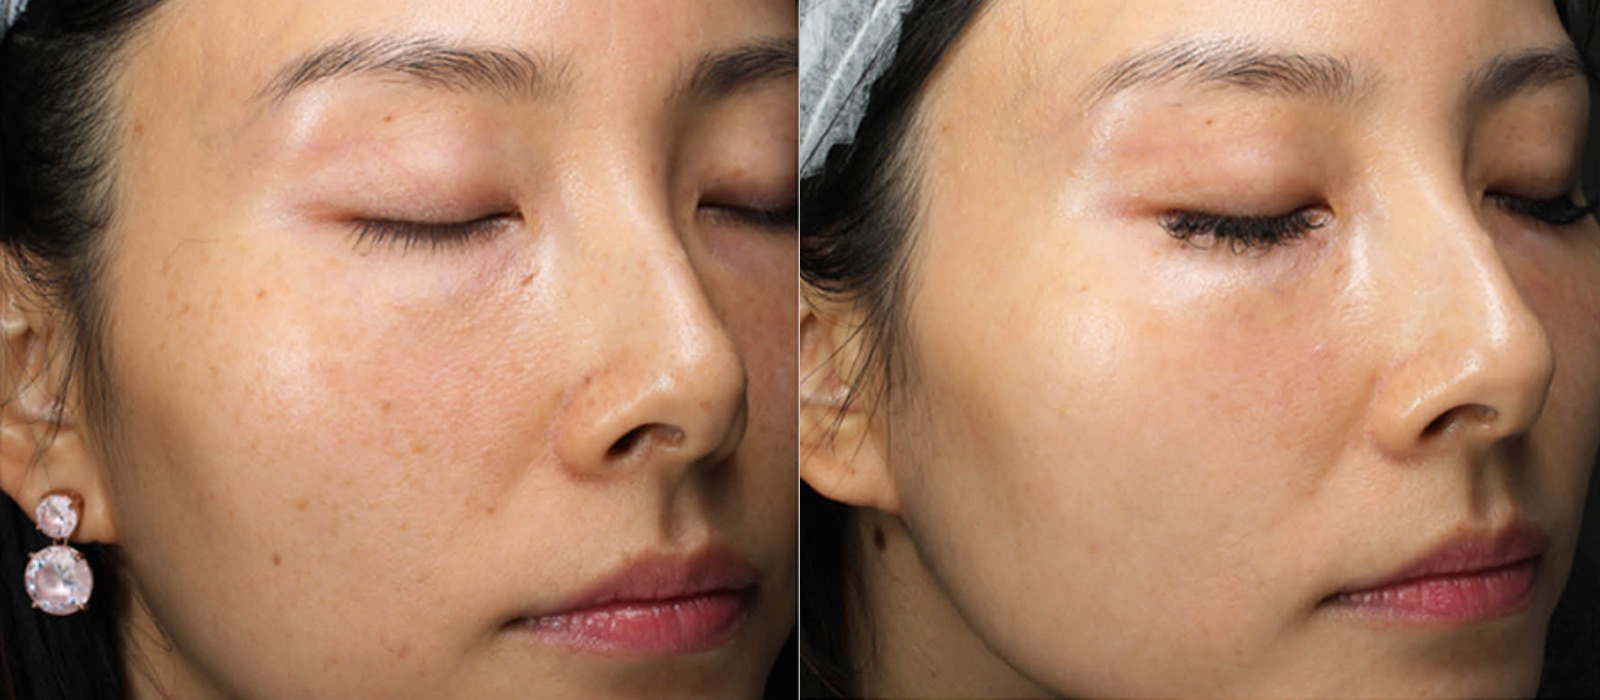
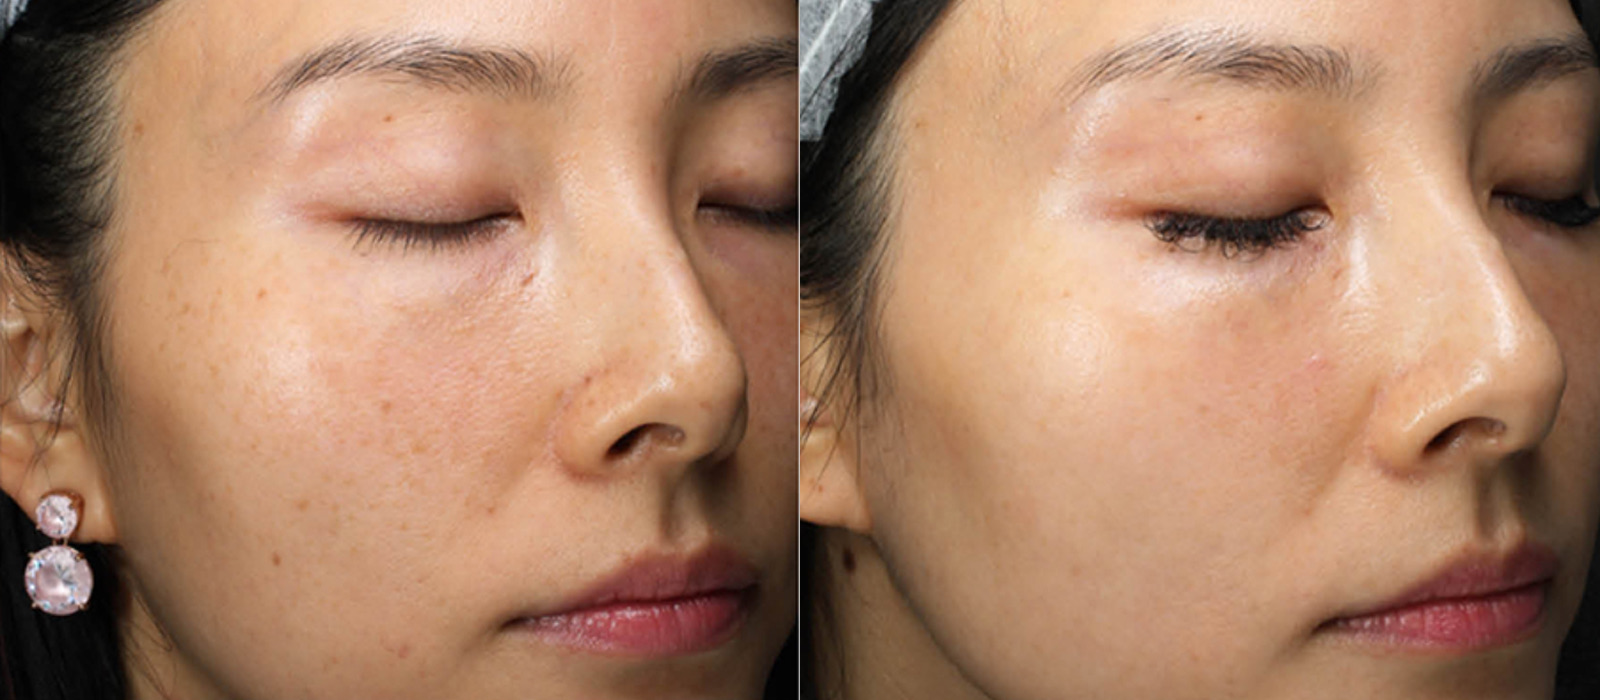
Home: scrollytelling treatments section, serif intro, larger hero CTA; XERF + PicoSure Pro detail pages
- Home: 4 treatment categories (pinned scroll on desktop, stacked on mobile),
  serif intro statement, hero button matches /book-now ("Book Your Consult")
- Detail pages linked for XERF and PicoSure Pro only (TREATMENT_PAGES_ON)
- Detail cards: copy for XERF/PicoSure, multi-line text shows as bullets,
  numbers in peach-deep, tighter leading; optional Disclaimer column
- New XERF main photo and PicoSure Pro before & after

diff --git a/src/components/HomeTreatments.jsx b/src/components/HomeTreatments.jsx
@@ -1,0 +1,144 @@
+import { useEffect, useRef, useState } from 'react'
+import { Link } from 'react-router-dom'
+import { sections } from '../lib/treatments'
+import { collectGroup } from '../lib/loadContent'
+import { hasDetailPage } from '../lib/features'
+
+// Home page treatment categories (copy: TREATMENTS_INTRO_n_* in home.txt; photos: assets/images/home/treatments/,
+// matched to the copy by file order, so name them 1-…, 2-…).
+//   TYPE  the spreadsheet type's Short Name whose treatments are listed; empty = no list, links to /treatments
+// Desktop: the panel stays pinned while you scroll; each step (90vh of scrolling) opens the next category and swaps the photo.
+// Mobile: a plain stack (photo, title, text, list) per category.
+const photos = Object.entries(import.meta.glob('../assets/images/home/treatments/*.jpg', { eager: true, import: 'default' }))
+  .sort(([a], [b]) => a.localeCompare(b))
+  .map(([, src]) => src)
+
+export default function HomeTreatments({ copy }) {
+  const items = collectGroup(copy, 'TREATMENTS_INTRO', ['TITLE', 'TEXT', 'TYPE']).map((item, i) => {
+    const type = sections.find((s) => s.shortName === item.type)
+    return {
+      ...item,
+      photo: photos[i],
+      treatments: type ? type.treatments : [],
+      href: type ? `/treatments#${type.anchor}` : '/treatments',
+    }
+  })
+
+  const wrapRef = useRef(null)
+  const panelRef = useRef(null)
+  const [active, setActive] = useState(0)
+
+  // How far the pinned stretch has been scrolled (0..1) decides which category is open
+  useEffect(() => {
+    function update() {
+      const wrap = wrapRef.current
+      const panel = panelRef.current
+      if (!wrap || !panel || !wrap.offsetParent) return // hidden on mobile
+      const range = wrap.offsetHeight - panel.offsetHeight
+      const progress = Math.min(Math.max(-wrap.getBoundingClientRect().top / range, 0), 0.999)
+      setActive(Math.floor(progress * items.length))
+    }
+    update()
+    window.addEventListener('scroll', update, { passive: true })
+    window.addEventListener('resize', update)
+    return () => {
+      window.removeEventListener('scroll', update)
+      window.removeEventListener('resize', update)
+    }
+  }, [items.length])
+
+  // Clicking a closed title scrolls to its step
+  function goTo(i) {
+    const wrap = wrapRef.current
+    const range = wrap.offsetHeight - panelRef.current.offsetHeight
+    const top = wrap.getBoundingClientRect().top + window.scrollY + ((i + 0.5) / items.length) * range
+    window.scrollTo({ top, behavior: 'smooth' })
+  }
+
+  return (
+    <>
+      {/* Desktop: pinned panel + one empty scroll step per category */}
+      <section ref={wrapRef} className="hidden md:block">
+        <div ref={panelRef} className="scrolly-panel">
+          <div className="page-container h-full grid grid-cols-2 gap-12 items-center">
+            <ol>
+              {items.map((item, i) => {
+                const open = i === active
+                return (
+                  <li key={item.title} className="grid grid-cols-[3rem_1fr] py-2">
+                    <span className={`type-body pt-2 transition-colors ${open ? 'text-ink' : 'text-ink/30'}`}>{i + 1}</span>
+                    <div>
+                      <button
+                        type="button"
+                        onClick={() => goTo(i)}
+                        className={`type-heading font-display font-light text-left transition-colors ${open ? 'text-ink' : 'text-ink/30 hover:text-ink/60'}`}
+                      >
+                        {item.title}
+                      </button>
+                      {open && <Details item={item} linkLabel={copy.TREATMENTS_INTRO_LINK} />}
+                    </div>
+                  </li>
+                )
+              })}
+            </ol>
+
+            <Link to={items[active]?.href || '/treatments'} className="img-frame relative block h-full max-h-[80vh] aspect-[4/5] justify-self-end" tabIndex={-1} aria-hidden="true">
+              {items.map((item, i) => (
+                <img
+                  key={item.title}
+                  src={item.photo}
+                  alt=""
+                  className={`absolute inset-0 w-full h-full object-cover transition-opacity duration-500 ${i === active ? 'opacity-100' : 'opacity-0'}`}
+                />
+              ))}
+            </Link>
+          </div>
+        </div>
+        {items.map((item) => (
+          <div key={item.title} className="h-[90vh]" aria-hidden="true" />
+        ))}
+      </section>
+
+      {/* Mobile: stacked */}
+      <section className="md:hidden page-container section-y space-y-14">
+        {items.map((item, i) => (
+          <div key={item.title}>
+            <div className="img-frame aspect-[4/5]">
+              {item.photo && <img src={item.photo} alt="" className="w-full h-full object-cover" />}
+            </div>
+            <p className="type-body text-ink mt-6">{i + 1}</p>
+            <h3 className="type-heading font-display font-light mt-1">{item.title}</h3>
+            <Details item={item} linkLabel={copy.TREATMENTS_INTRO_LINK} />
+          </div>
+        ))}
+      </section>
+    </>
+  )
+}
+
+function Details({ item, linkLabel }) {
+  return (
+    <div className="mt-4 max-w-md">
+      <p className="type-body text-ink">{item.text}</p>
+      {item.treatments.length > 0 && (
+        <ul className="type-body text-ink mt-5 space-y-1">
+          {item.treatments.map((t) => (
+            <li key={t.slug} className="flex gap-3">
+              <span aria-hidden="true">·</span>
+              {hasDetailPage(t.slug) ? (
+                <Link to={`/treatments/${t.slug}`} className="underline underline-offset-4 hover:text-peach transition-colors">
+                  {t.title}
+                </Link>
+              ) : (
+                t.title
+              )}
+            </li>
+          ))}
+        </ul>
+      )}
+      <Link to={item.href} className="type-link type-body text-ink mt-5 inline-block">
+        {linkLabel}
+      </Link>
+    </div>
+  )
+}

diff --git a/src/pages/Home.jsx b/src/pages/Home.jsx
@@ -1,7 +1,7 @@
 import { Link } from 'react-router-dom'
-import { useState } from 'react'
-import { sections, topTreatments } from '../lib/treatments'
+import { topTreatments } from '../lib/treatments'
 import Button from '../components/ui/Button'
+import HomeTreatments from '../components/HomeTreatments'
 import Section from '../components/ui/Section'
 import Highlighted from '../lib/highlight'
 import { parseContent } from '../lib/loadContent'
@@ -27,8 +27,6 @@ const mapSrc = `https://www.google.com/maps?q=${encodeURIComponent(g.FOOTER_ADDR
 const SHOW_TOP_TREATMENTS = false
 
 export default function Home() {
-  const [activeType, setActiveType] = useState(sections[0]?.anchor)
-
   return (
     <div>
       {/* Hero (sits below the fixed header) */}
@@ -44,17 +42,17 @@ export default function Home() {
             <h1 className="type-h1 mb-6">
               <Highlighted text={c.HERO_HEADLINE} />
             </h1>
-            <Button to="/book-now" variant="light" size="sm">
-              BOOK NOW
+            <Button to="/book-now" variant="light" size="xl">
+              {c.HERO_CTA}
             </Button>
           </div>
         </div>
       </section>
 
       {/* Intro statement - *asterisks* in the copy become the serif highlight */}
-      <section className="min-h-[60vh]">
-        <div className="page-container pt-12 pb-16">
-          <p className="type-h1 md:w-3/4">
+      <section className="md:min-h-[60vh]">
+        <div className="page-container pt-12 pb-[120px] md:pb-16">
+          <p className="type-statement md:ml-[25%]">
             <Highlighted text={c.INTRO} />
           </p>
         </div>
@@ -89,61 +87,7 @@ export default function Home() {
         </Section>
       )}
 
-      {/* Treatment types.
-          Desktop: hovering (or tabbing to) a name shows its thumbnail; clicking goes to /treatments#anchor.
-          Mobile (no hover): every thumbnail is shown, each one a link to its section. */}
-      <Section>
-        <div className="hidden md:grid grid-cols-2 gap-12 items-start">
-          <div>
-            {sections.map((section) => {
-              const active = activeType === section.anchor
-              return (
-                <div
-                  key={section.anchor}
-                  className={`type-h1 transition-colors ${active ? 'text-peach' : 'text-ink'}`}
-                  onMouseEnter={() => setActiveType(section.anchor)}
-                >
-                  <Link to={`/treatments#${section.anchor}`} onFocus={() => setActiveType(section.anchor)}>
-                    {section.shortName}
-                    {active ? ' •' : ''}
-                  </Link>
-                </div>
-              )
-            })}
-
-            <Link to="/treatments" className="type-link mt-6 inline-block">
-              See all
-            </Link>
-          </div>
-
-          <Link to={`/treatments#${activeType}`} className="img-frame block aspect-[622/560]" tabIndex={-1} aria-hidden="true">
-            {sections.map((section) =>
-              section.image ? (
-                <img
-                  key={section.anchor}
-                  src={section.image}
-                  alt=""
-                  className={`w-full h-full object-cover ${activeType === section.anchor ? 'block' : 'hidden'}`}
-                />
-              ) : null
-            )}
-          </Link>
-        </div>
-
-        <div className="md:hidden space-y-8">
-          {sections.map((section) => (
-            <Link key={section.anchor} to={`/treatments#${section.anchor}`} className="block">
-              <div className="img-frame aspect-[622/560]">
-                {section.image && <img src={section.image} alt="" className="w-full h-full object-cover" />}
-              </div>
-              <p className="type-h1 mt-3">{section.shortName}</p>
-            </Link>
-          ))}
-          <Link to="/treatments" className="type-link inline-block">
-            See all
-          </Link>
-        </div>
-      </Section>
+      <HomeTreatments copy={c} />
 
       {/* Your Voice Matters */}
       <Section>

diff --git a/src/styles/components.css b/src/styles/components.css
@@ -27,6 +27,10 @@
   }
 
   /* ── Images ─────────────────────────────────────────── */
+  .scrolly-panel {                           /* full-screen panel that stays pinned below the header while its section scrolls */
+    position: sticky; top: var(--header-height);
+    height: calc(100vh - var(--header-height));
+  }
   .img-frame {                               /* wrap every photo that needs rounded corners */
     overflow: hidden;
     border-radius: var(--radius-image);
@@ -55,6 +59,13 @@
     font-family: var(--font-display); font-style: italic; font-weight: 300;
     font-size: clamp(34px, 3.8vw, 52px); line-height: 1.2; letter-spacing: -0.02em;
   }
+  .type-statement {                          /* large serif statement (home intro): Newsreader Light 24px (32px desktop), first line indented */
+    font-family: var(--font-display); font-weight: 300;
+    font-size: 24px; line-height: 1.2; letter-spacing: -0.01em;
+    text-indent: 12%;
+  }
+  .type-statement .highlight { font-size: inherit; line-height: inherit; }
+  @media (min-width: 768px) { .type-statement { font-size: 32px; } }   /* desktop size; phones stay at 24px */
   .type-card-title { font-size: 1.25rem; line-height: 1.4; font-weight: 500; }
   .type-kicker     { font-size: 14px; line-height: 1.5; font-weight: 500; }
   .type-lead       { font-size: 1.125rem; line-height: 1.625; color: var(--color-ink-soft); }
@@ -62,6 +73,7 @@
     font-family: var(--font-sans); font-size: 14px; font-weight: 400;
     letter-spacing: 0.01em; line-height: 1.625; color: var(--color-ink-soft);
   }
+  .type-body-tight { line-height: 1.3; }    /* add to .type-body for tighter leading (treatment cards) */
   .type-link {                               /* text link: Switzer Medium 14px, underlines on hover */
     font-size: 14px; line-height: 1.5; font-weight: 500;
     color: var(--color-ink); text-decoration: none; cursor: pointer;
@@ -119,6 +131,7 @@
   .btn-lg    { padding: 15px 30px; font-size: 16px; }
   .btn-hero  { padding: 12px; font-size: 14pt; }
   .btn-block { width: 100%; height: 3.5rem; font-size: 16px; }
+  .btn-xl    { height: 3.5rem; padding-inline: 2.25rem; font-size: 16px; white-space: nowrap; }  /* same look as the /book-now submit, standalone */
 
   /* ── Forms ──────────────────────────────────────────── */
   .field {

diff --git a/src/pages/TreatmentDetail.jsx b/src/pages/TreatmentDetail.jsx
@@ -61,19 +61,20 @@ export default function TreatmentDetail() {
           <div className="grid grid-cols-1 md:grid-cols-3 gap-4">
             {cards.map((card, i) => (
               <div key={card.title} className="card">
-                <p className="text-2xl text-cta">{String(i + 1).padStart(2, '0')}</p>
+                <p className="text-2xl text-peach-deep">{String(i + 1).padStart(2, '0')}</p>
                 <h2 className="type-card-title mt-5">{card.title}</h2>
                 {card.html ? (
                   <div
-                    className="type-body mt-4 space-y-3 [&_ul]:list-disc [&_ul]:pl-5 [&_ol]:list-decimal [&_ol]:pl-5 [&_a]:underline [&_strong]:text-ink"
+                    className="type-body type-body-tight mt-4 space-y-3 [&_ul]:list-disc [&_ul]:pl-5 [&_ol]:list-decimal [&_ol]:pl-5 [&_a]:underline [&_strong]:text-ink"
                     dangerouslySetInnerHTML={{ __html: card.html }}
                   />
                 ) : (
-                  <p className="type-body mt-4 whitespace-pre-line">{card.text}</p>
+                  <CardText text={card.text} />
                 )}
               </div>
             ))}
           </div>
+          {t.disclaimer && <p className="mt-6 text-xs text-ink-soft max-w-3xl">{t.disclaimer}</p>}
         </Section>
       )}
 
@@ -103,5 +104,18 @@ export default function TreatmentDetail() {
         <ContactForm copy={c} source={`Treatment page: ${t.title}`} />
       </Section>
     </div>
+  )
+}
+
+// Plain-text card body: one line = a paragraph; several lines = a bullet list.
+function CardText({ text }) {
+  const lines = text.split('\n').map((l) => l.trim()).filter(Boolean)
+  if (lines.length < 2) return <p className="type-body type-body-tight mt-4">{text}</p>
+  return (
+    <ul className="type-body type-body-tight mt-4 list-disc pl-5 space-y-1">
+      {lines.map((l) => (
+        <li key={l}>{l}</li>
+      ))}
+    </ul>
   )
 }

diff --git a/src/pages/Services.jsx b/src/pages/Services.jsx
@@ -4,7 +4,7 @@ import { sections } from '../lib/treatments'
 import Button from '../components/ui/Button'
 import Section from '../components/ui/Section'
 import { titleCase } from '../lib/format'
-import { SHOW_TREATMENT_LINKS } from '../lib/features'
+import { SHOW_TREATMENT_LINKS, hasDetailPage } from '../lib/features'
 
 export default function Services() {
   const { hash } = useLocation()
@@ -42,7 +42,7 @@ export default function Services() {
                 </h2>
                 <div className={`link-list ${SHOW_TREATMENT_LINKS ? '' : 'link-list-plain'}`}>
                   {section.treatments.map((t) =>
-                    SHOW_TREATMENT_LINKS ? (
+                    hasDetailPage(t.slug) ? (
                       <Link
                         key={t.slug}
                         to={`/treatments/${t.slug}`}

diff --git a/src/lib/features.js b/src/lib/features.js
@@ -6,6 +6,11 @@ export const SHOW_MEMBERSHIP = false
 // While false, the names show as plain text and only the "Book a consultation" button is a link.
 export const SHOW_TREATMENT_LINKS = false
 
+// Treatment detail pages switched on one by one (slugs from treatments.xlsx) while SHOW_TREATMENT_LINKS is false.
+// Their names become links on the Treatments page and the home page; the others stay plain text.
+export const TREATMENT_PAGES_ON = ['xerf', 'picosure-pro']
+export const hasDetailPage = (slug) => SHOW_TREATMENT_LINKS || TREATMENT_PAGES_ON.includes(slug)
+
 // Forms: the "I agree to terms & conditions" checkbox. Off until the terms / privacy pages exist.
 // While false, the box is hidden and enquiries are sent without a consent line.
 export const SHOW_CONSENT = false

diff --git a/src/components/ui/Button.jsx b/src/components/ui/Button.jsx
@@ -2,7 +2,7 @@ import { Link } from 'react-router-dom'
 
 // The one way to render a button or button-like link.
 //   variant: cta (default) | light | neutral        -> colors, see styles/components.css
-//   size:    md (default) | sm | lg | hero | block  -> padding / type size
+//   size:    md (default) | sm | lg | xl | hero | block  -> padding / type size
 // Pass `to` for an internal link, `href` for an anchor/external link, neither for a <button>.
 export default function Button({ to, href, variant = 'cta', size = 'md', className = '', ...props }) {
   const cls = `btn btn-${variant} btn-${size} ${className}`.trim()

diff --git a/src/index.css b/src/index.css
@@ -1,5 +1,5 @@
 @import url("https://api.fontshare.com/v2/css?f[]=switzer@300,400,500&display=swap");
-@import url("https://fonts.googleapis.com/css2?family=Newsreader:ital,opsz,wght@1,6..72,300&display=swap");
+@import url("https://fonts.googleapis.com/css2?family=Newsreader:ital,opsz,wght@0,6..72,300;1,6..72,300&display=swap");
 @import "tailwindcss";
 
 /* Site styles live in src/styles/ — read src/design.md before adding any. */

diff --git a/src/styles/tokens.css b/src/styles/tokens.css
@@ -16,6 +16,7 @@
   /* Brand */
   --color-peach: #cbae94;        /* brand tan: footer, active states, hover accents */
   --color-peach-dark: #b89678;
+  --color-peach-deep: #9a7e63;   /* card numbers 01 / 02 / 03 */
   --color-cta: #f7cba3;          /* primary call-to-action */
   --color-cta-dark: #f1bd91;
 
